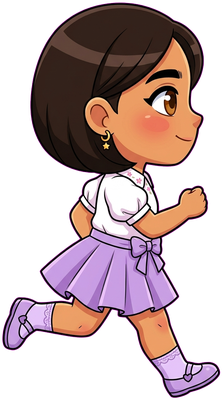
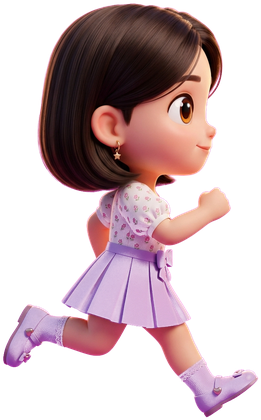
Give the character and enemy sprites a glossy 3D look and better animation
Regenerated the player and enemy sprites in the same glossy 3D-rendered
style as the start-screen hero art (they were flat 2D vector art before,
which clashed with the rest of the game's look). Added a bouncy run
cycle and slight lean to the player while moving, a wing-flap wobble
on the enemy, and soft contact shadows under both for depth.

Claude-Session: https://claude.ai/code/session_01MeBnQK2EXTS3Qeu1kS8qrZ

diff --git a/index.html b/index.html
@@ -1007,14 +1007,22 @@
 
   function drawEnemy(e){
     if(e.dead) return;
-    var bob = Math.sin(timeNow*0.006 + e.x*0.02)*2;
+    var bobPhase = timeNow*0.006 + e.x*0.02;
+    var bob = Math.sin(bobPhase)*3;
     var cx = e.x+e.w/2, cy = e.y+e.h/2+bob;
+
+    var flapPhase = timeNow*0.012 + e.x*0.02;
+    var flapX = 1 + Math.sin(flapPhase)*0.07;
+    var flapY = 1 - Math.sin(flapPhase)*0.05;
+
+    drawShadow(cx, e.y+e.h+4, (e.w/2)*0.85, 0.28);
+
     ctx.save();
     ctx.translate(cx,cy);
 
     if(enemyImgLoaded){
-      var drawH = e.h * 1.5;
-      var drawW = drawH * (enemyImg.width/enemyImg.height);
+      var drawH = e.h * 1.5 * flapY;
+      var drawW = drawH * (enemyImg.width/enemyImg.height) * flapX;
       ctx.scale(e.vx < 0 ? -1 : 1, 1);
       ctx.drawImage(enemyImg, -drawW/2, -drawH/2, drawW, drawH);
     } else {
@@ -1034,15 +1042,34 @@
   playerImg.onload = function(){ playerImgLoaded = true; };
   playerImg.src = 'assets/player.png';
 
+  function drawShadow(cx, groundY, w, alpha){
+    ctx.save();
+    ctx.globalAlpha = alpha;
+    ctx.fillStyle = '#1a0f2e';
+    ctx.beginPath();
+    ctx.ellipse(cx, groundY, w, w*0.22, 0, 0, Math.PI*2);
+    ctx.fill();
+    ctx.restore();
+  }
+
   function drawPlayer(){
     var p = player;
     var flicker = p.invuln>0 && Math.floor(timeNow/90)%2===0;
     if(flicker) return;
 
     var squash = p.onGround ? 1 : (p.vy<0 ? 0.9 : 1.08);
+    var moving = p.onGround && Math.abs(p.vx) > 0.3;
+    var runPhase = timeNow*0.016;
+    var runBobY = moving ? -Math.abs(Math.sin(runPhase*2))*4 : 0;
+    var runTilt = moving ? Math.sin(runPhase*2)*0.08 : 0;
+
+    var shadowAlpha = p.onGround ? 0.3 : Math.max(0.1, 0.3 - Math.abs(p.vy)*0.015);
+    var shadowScale = p.onGround ? 1 : 0.75;
+    drawShadow(p.x+p.w/2, p.y+p.h+3, (p.w/2)*shadowScale, shadowAlpha);
 
     ctx.save();
-    ctx.translate(p.x+p.w/2, p.y+p.h/2);
+    ctx.translate(p.x+p.w/2, p.y+p.h/2+runBobY);
+    ctx.rotate(runTilt);
     ctx.scale(p.facing * squash, (2-squash));
 
     if(playerImgLoaded){
